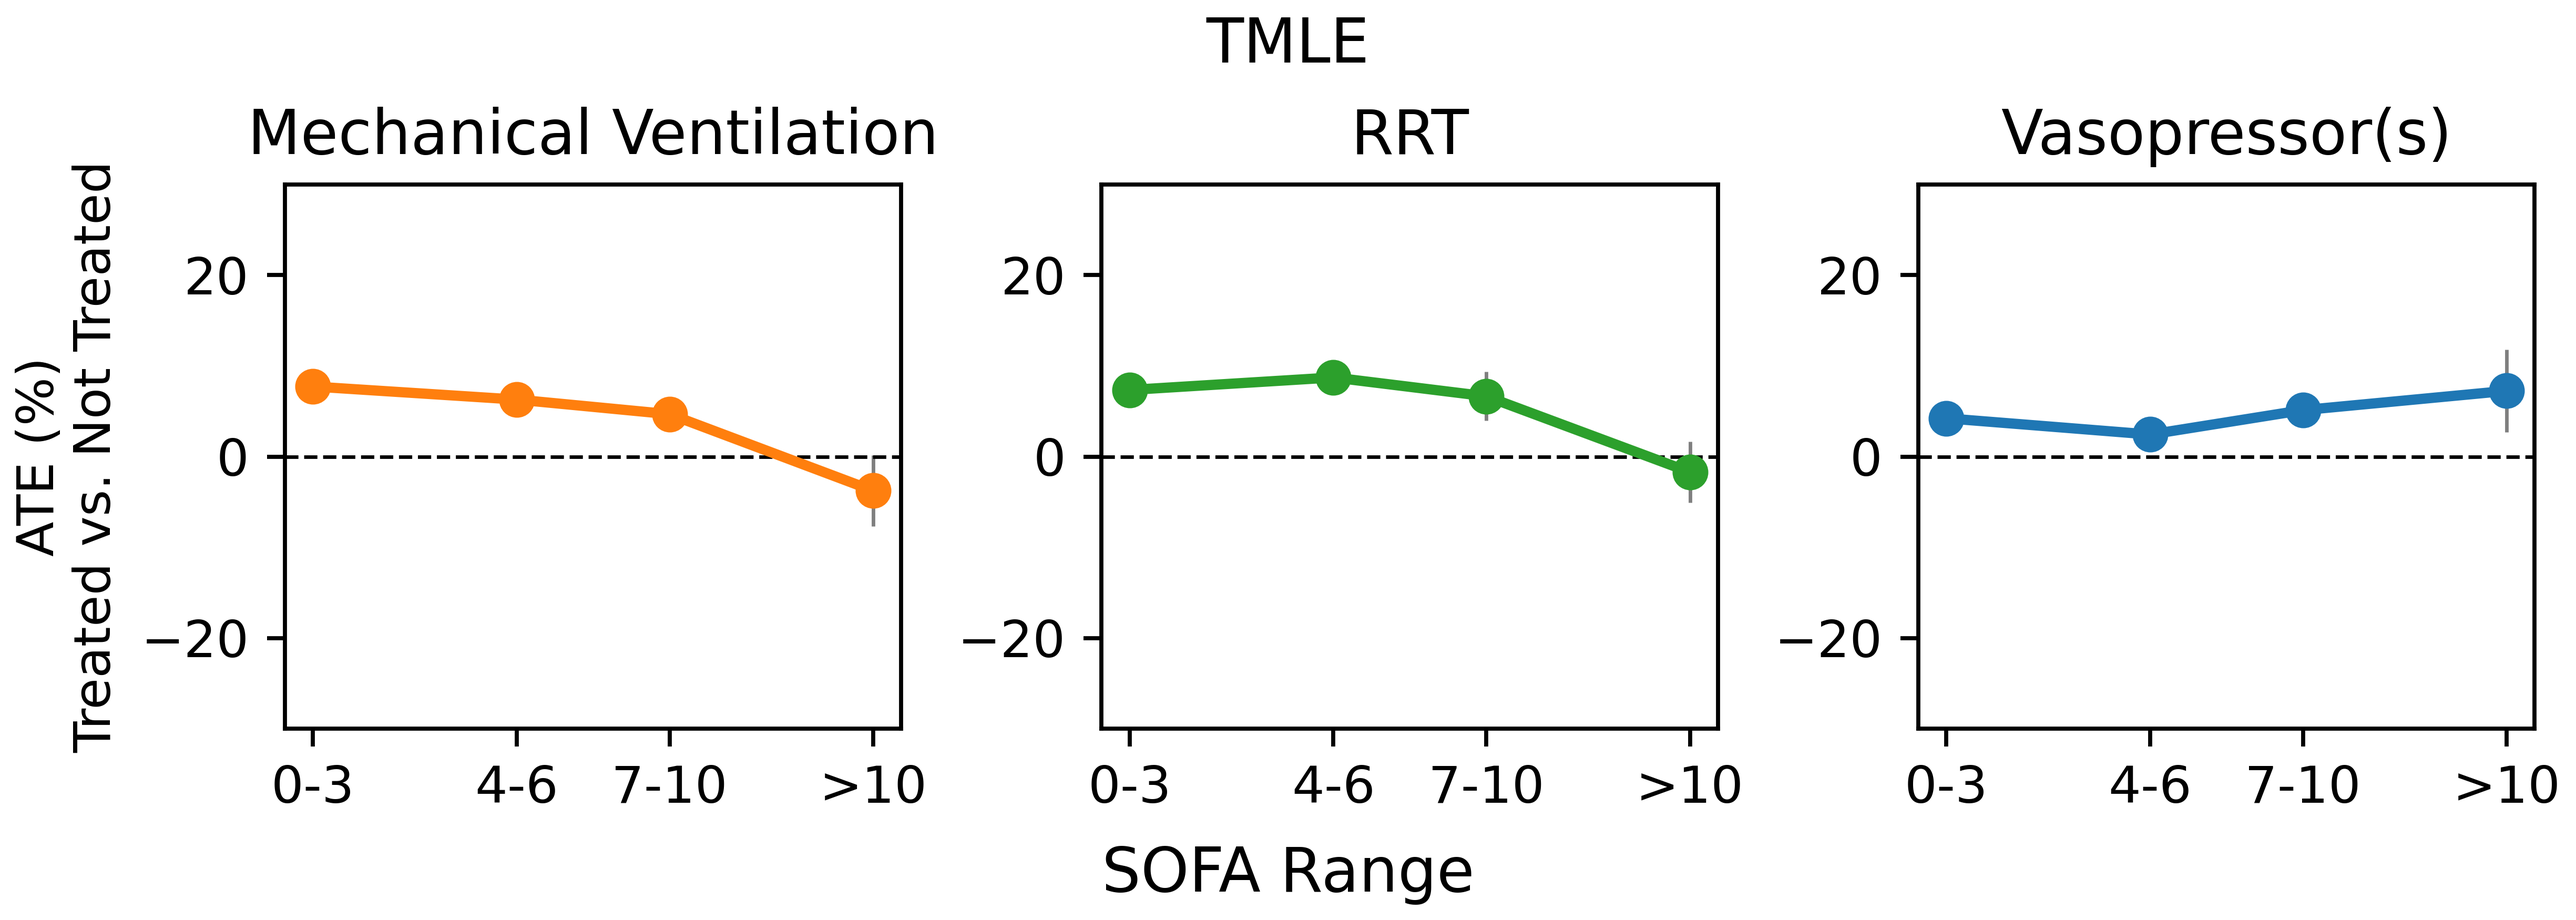
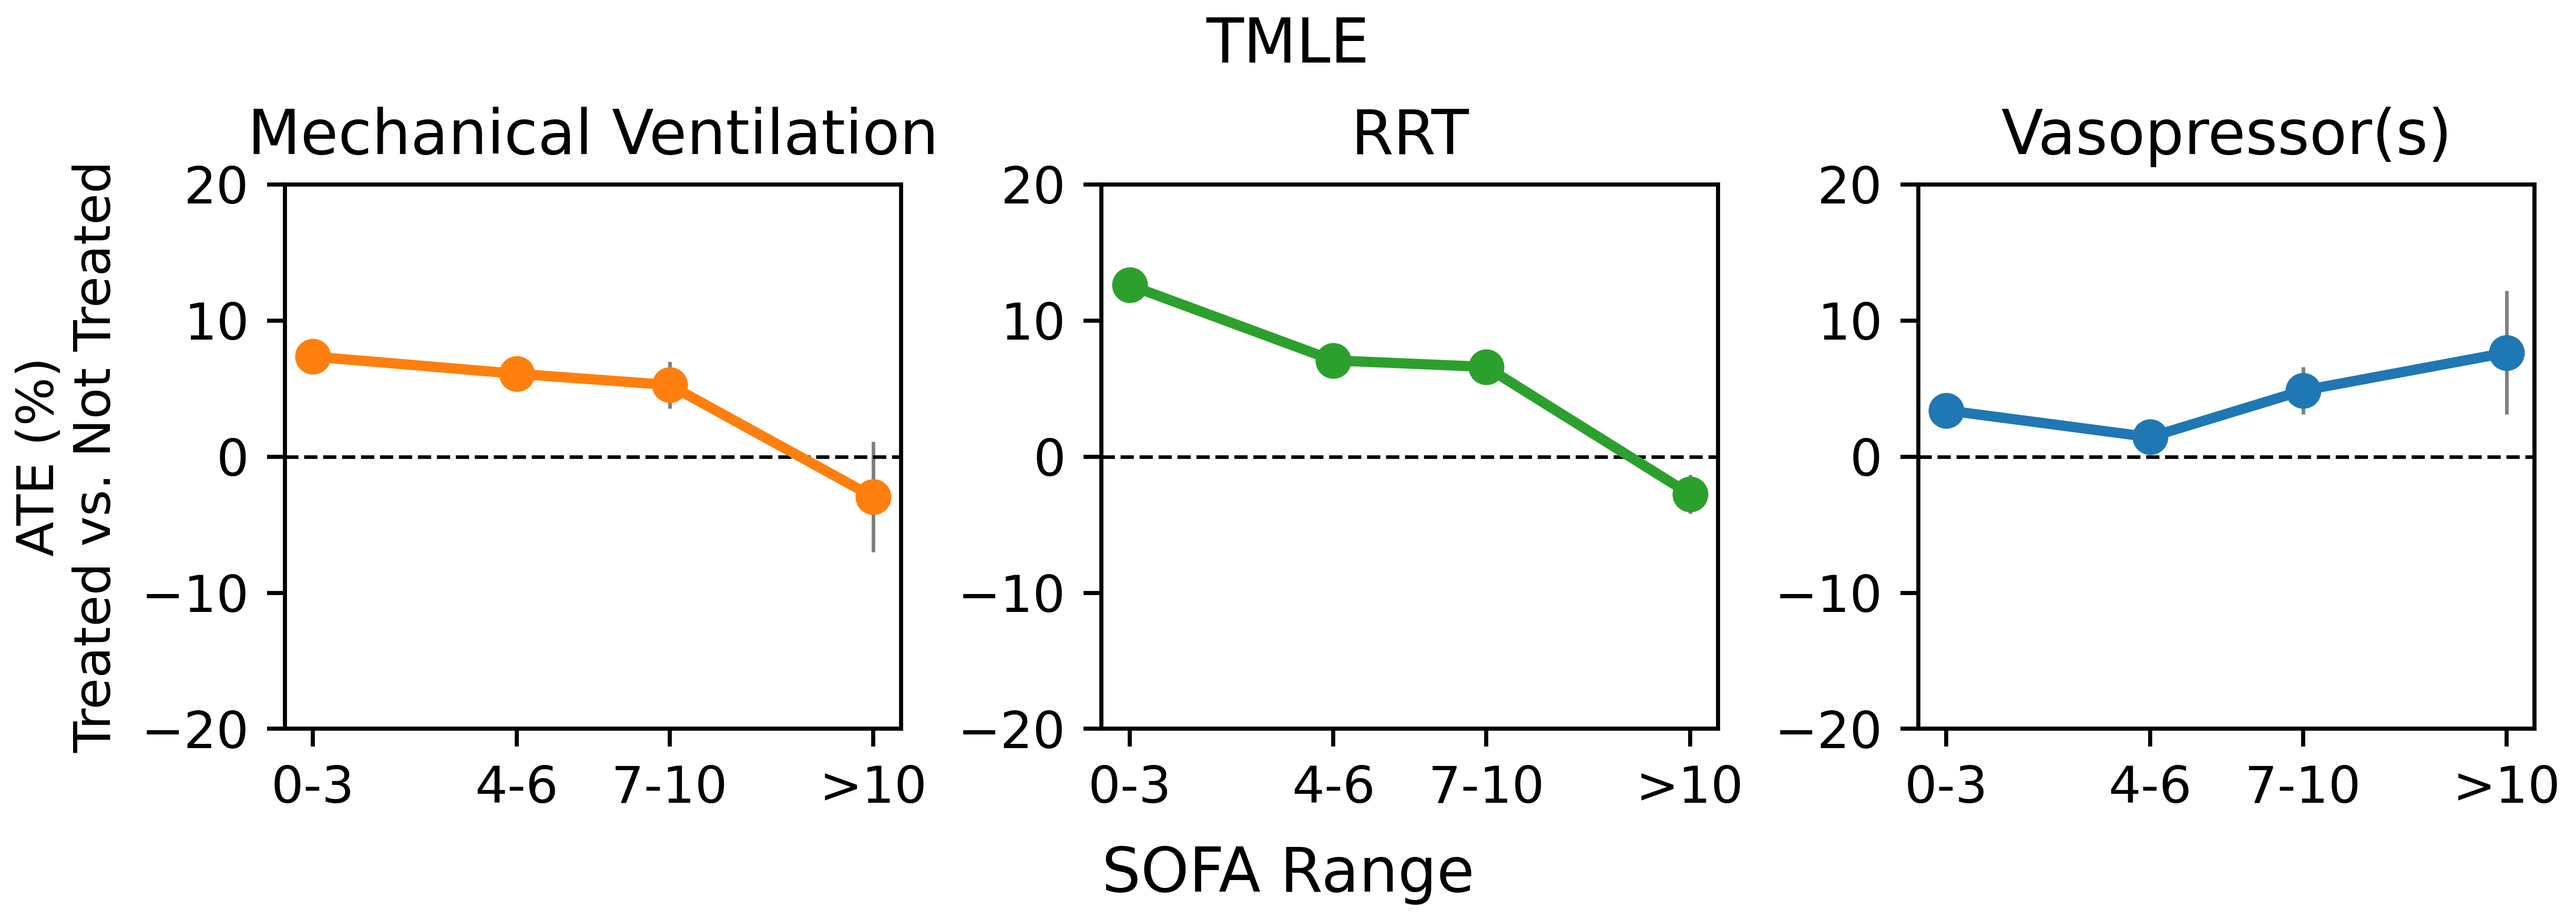
Fix TMLE results for added confounders; remove LTMLE for now

diff --git a/src/py_scripts/plot_TMLE_race.py b/src/py_scripts/plot_TMLE_race.py
@@ -5,10 +5,10 @@ import seaborn as sb
 import matplotlib
 matplotlib.use('TKAgg')
 
-df = pd.read_csv("results\TMLE.csv")
+df = pd.read_csv("results\TMLE_no_conditions.csv")
 
 # Remove overall result
-df = df[df.race == 'all']
+df = df[~((df.sofa_start == 0) & (df.sofa_end == 100))]
 
 # Transform into percentages
 df.psi = df.psi * 100
@@ -16,6 +16,8 @@ df.i_ci = df.i_ci * 100
 df.s_ci = df.s_ci * 100
 
 treatments = df.treatment.unique()
+races = df.race.unique()
+
 t_dict = dict(zip(["ventilation_bin", "rrt", "pressor"],
                   ["Mechanical Ventilation", "RRT", "Vasopressor(s)"]))
 colors = ["tab:orange", "tab:green", "tab:blue"]
@@ -26,10 +28,12 @@ fig.suptitle('TMLE')
 
 for i, t in enumerate(treatments):
 
-    df_temp = df[df.treatment == t]
+    df_temp1 = df[(df.treatment == t) & (df.race == "non-white")]
+    df_temp2 = df[(df.treatment == t) & (df.race == "white")]
     axes[i].set(xlabel=None)
     axes[i].set(ylabel=None)
-    axes[i].errorbar(x=df_temp.sofa_start, y=df_temp.psi, yerr=((df_temp.psi- df_temp.i_ci), (df_temp.s_ci-df_temp.psi)), fmt='-o', c=colors[i], ecolor='tab:gray', elinewidth=.7, linewidth=2)
+    axes[i].errorbar(x=df_temp1.sofa_start, y=df_temp1.psi, yerr=((df_temp1.psi- df_temp1.i_ci), (df_temp1.s_ci-df_temp1.psi)), fmt='-o', c='black', ecolor='black', elinewidth=.4, linewidth=1.5, capsize=4, markeredgewidth=.4)
+    axes[i].errorbar(x=df_temp2.sofa_start, y=df_temp2.psi, yerr=((df_temp2.psi- df_temp2.i_ci), (df_temp2.s_ci-df_temp2.psi)), fmt='-o', c='tab:orange', ecolor='tab:orange', elinewidth=.4, linewidth=1.5, capsize=4, markeredgewidth=.4)
     axes[i].axhline(y=0, xmin=0, xmax=1, c="black", linewidth=.7, linestyle='--')
     axes[i].set_ylim([-20, 20])
     axes[i].set_title(t_dict[t])
@@ -40,4 +44,4 @@ for i, t in enumerate(treatments):
 
 fig.supxlabel('SOFA Range')
 
-fig.savefig("results/paper/fig2_TMLE.png", dpi=700)
+fig.savefig("results/paper/fig3_TMLE_race_no_conditions.png", dpi=700)

diff --git a/src/py_scripts/plot_LTMLE.py b/src/py_scripts/plot_LTMLE.py
@@ -18,7 +18,7 @@ df.sCI = df.sCI * 100
 treatments = df.treatment.unique()
 analyses = df.analysis.unique()
 
-t_dict = dict(zip(["ventilation_bin", "rrt", "pressor"],
+t_dict = dict(zip(["vent", "rrt", "pressor"],
                   ["Mechanical Ventilation", "RRT", "Vasopressor(s)"]))
 
 a_dict = {
